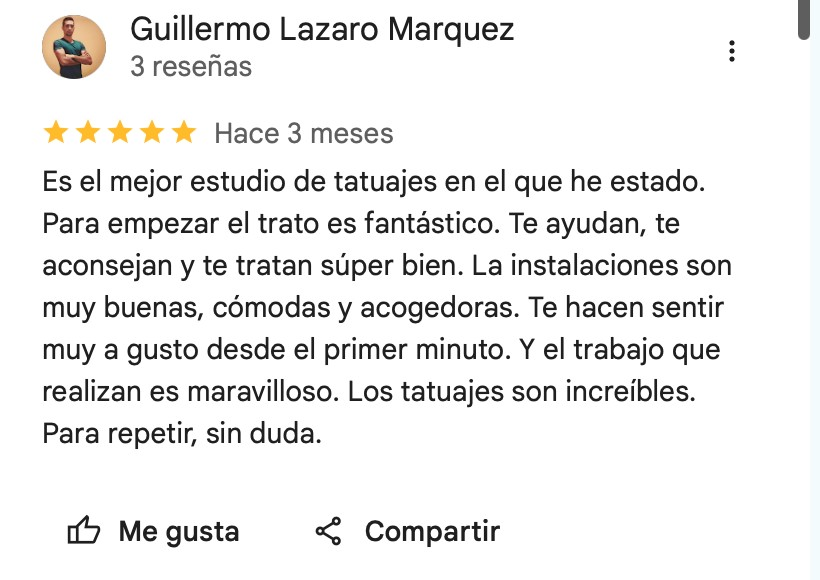
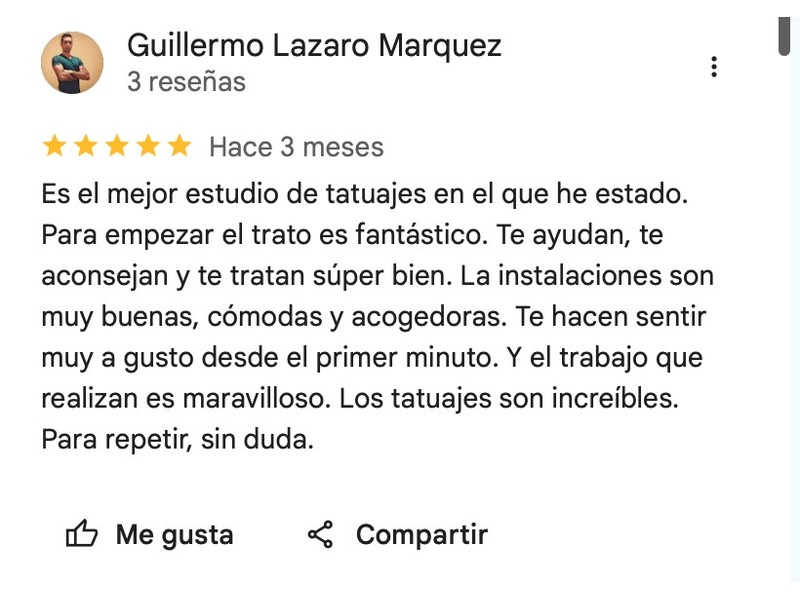
Add files via upload

diff --git a/styles.css b/styles.css
@@ -688,9 +688,9 @@ section h2 {
 
 .review-pair img {
   width: 50%;
-  aspect-ratio: auto;
+  aspect-ratio: 4 / 3;
   object-fit: contain;
-  background: var(--stone);
+  background: #fff;
   border-radius: 6px;
   border: 1px solid var(--line);
 }
@@ -817,5 +817,4 @@ section h2 {
 
 @media (min-width: 600px) {
   .carousel-item img { aspect-ratio: 4 / 3; }
-  .review-pair img { aspect-ratio: auto; }
 }
